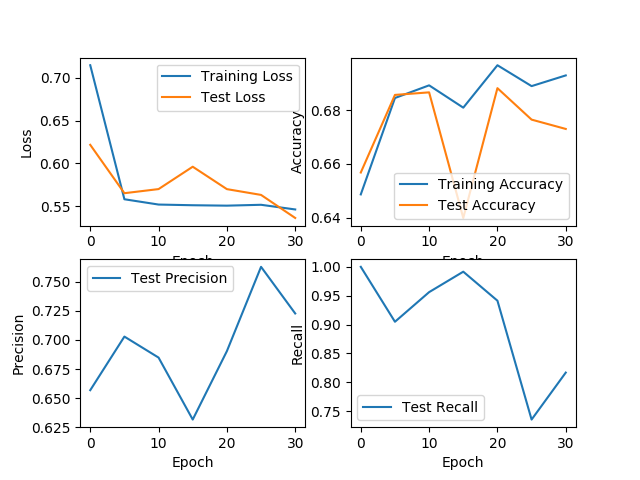
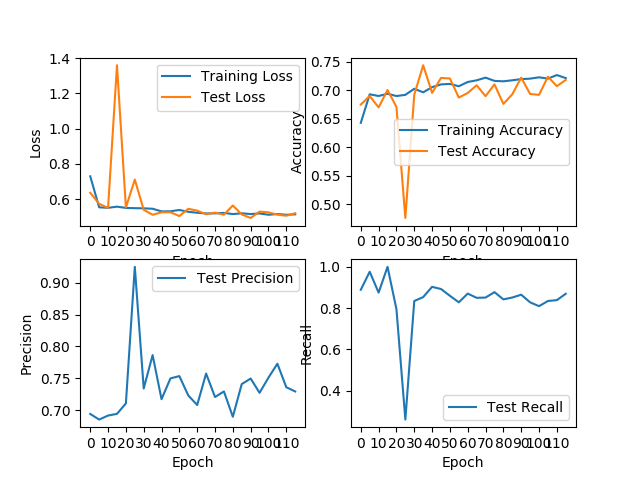
Add files via upload

diff --git a/EvolvingMain.py b/EvolvingMain.py
@@ -22,12 +22,12 @@ if torch.cuda.is_available():
 #=============== Hyperparameters =================#
 
 TASK_NUMBER = 2 #Current task Starting from 1
-MODULAR = True
+MODULAR = False
 
 pooling_num = int(28 / ((TASK_NUMBER - 1)*2)) if TASK_NUMBER > 1 else 28
 
 start_epoch = 0
-epochs = 35
+epochs = 120
 weight_decay = 1e-4
 learning_rate = 0.1
 batch_size = 256
